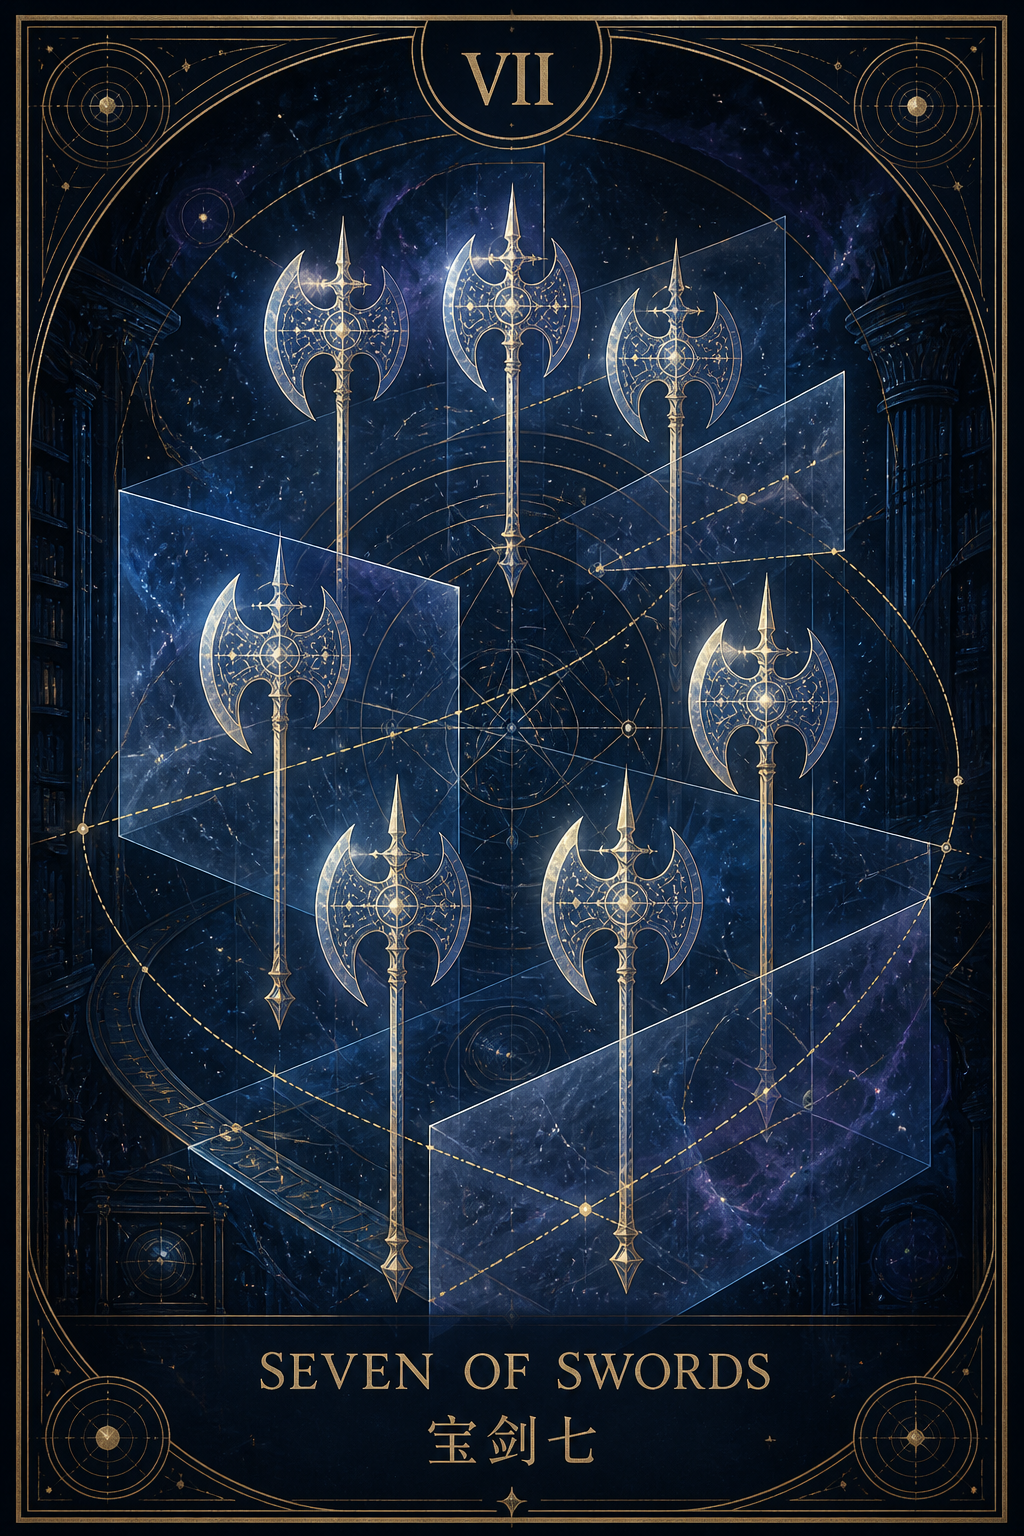
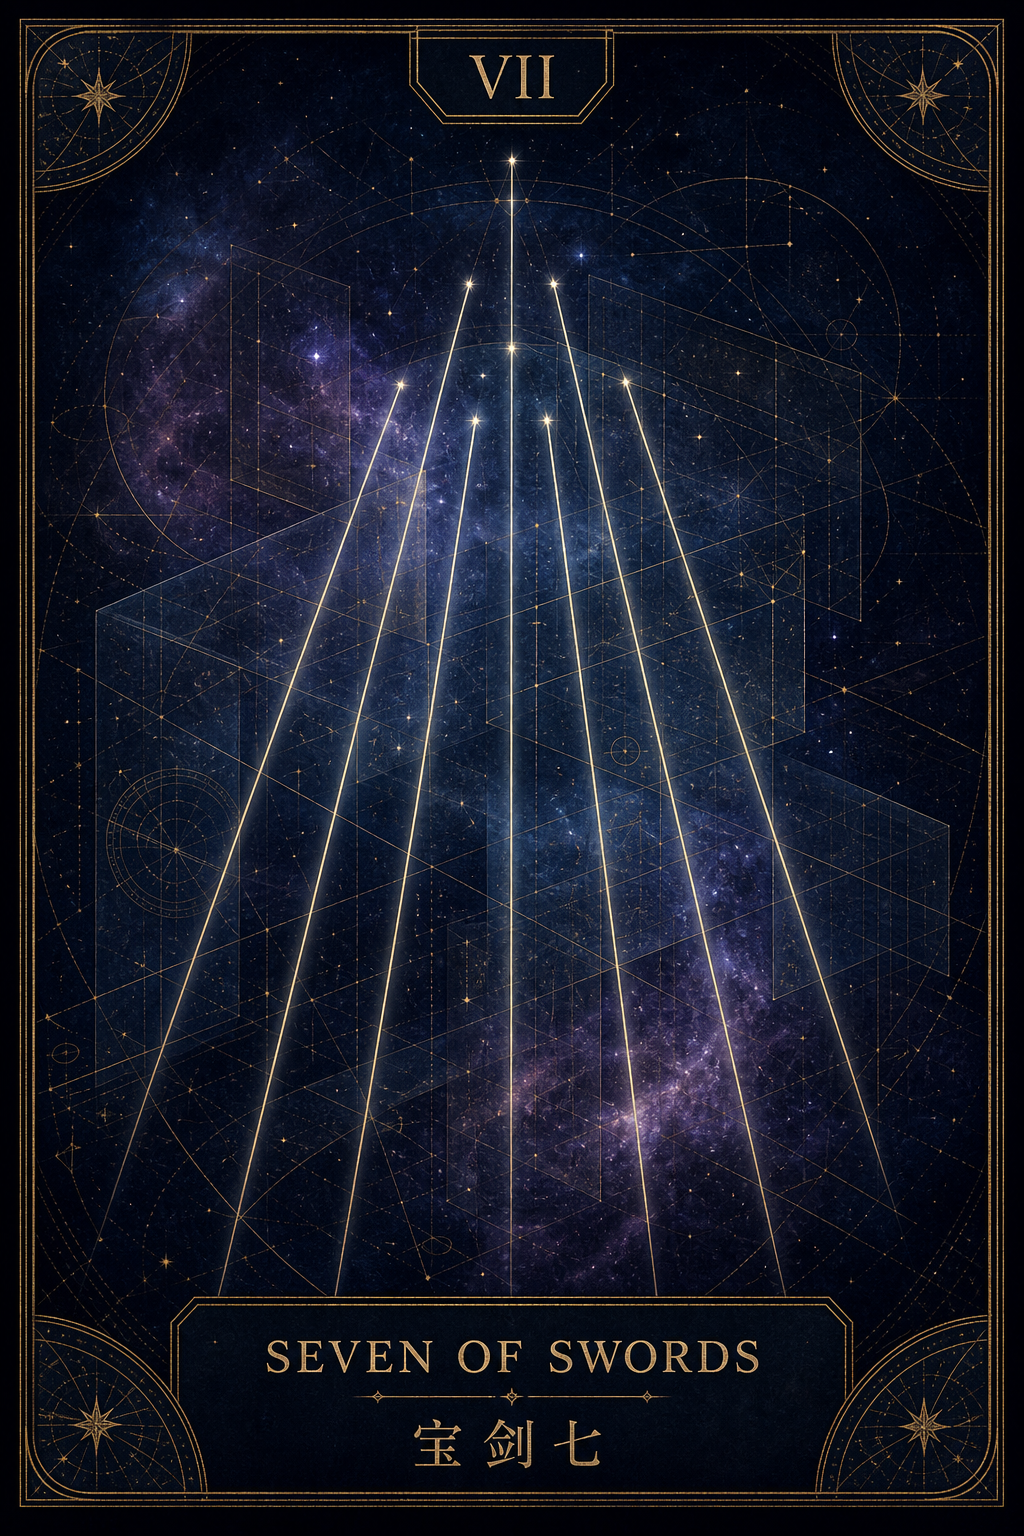
fix: redraw swords candidates seven through nine

diff --git a/assets/tarot/dark_cosmic_archive/candidates/minor_batch_swords/swords_08_eight/metadata.md b/assets/tarot/dark_cosmic_archive/candidates/minor_batch_swords/swords_08_eight/metadata.md
@@ -4,9 +4,11 @@ Card ID: `swords_08_eight`
 Deck: `dark_cosmic_archive`
 Suit: `swords`
 Rank: `eight`
-Prompt: Eight Cosmic Insight Blade light axes define a transparent geometric enclosure around an open central space; conscious limitation as a pattern.
-Negative Prompt: war scene, battle, weapon combat, realistic sword, knight battle, warrior, blood, injury, horror, death scene, fantasy game card, modern UI, cartoon style, realistic portrait, sci-fi spaceship.
+Prompt: Eight slender geometric light boundaries form a transparent cognitive enclosure around an open central void and a visible path of release; no sword-shaped objects.
+Negative Prompt: axe, battleaxe, sword object, blade object, weapon, hilt, handle, polearm, person, prison scene, war scene, battle, warrior, blood, injury, horror, death scene, fantasy game card, modern UI, cartoon style, realistic portrait, sci-fi spaceship.
 Resolution: `1024x1536` (2:3)
 Generation Date: `2026-08-21`
 Reference: `../../../visual_spec.md`; `../../../minor_arcana_generation_template.md`; `../../../reference/the_star_approved_v1.png` (style only)
 Status: `candidate`
+
+Revision: `v2`; `card_v1.png` retained as rejected candidate history after visual-rule review.

diff --git a/assets/tarot/dark_cosmic_archive/candidates/minor_batch_swords/swords_07_seven/metadata.md b/assets/tarot/dark_cosmic_archive/candidates/minor_batch_swords/swords_07_seven/metadata.md
@@ -4,9 +4,11 @@ Card ID: `swords_07_seven`
 Deck: `dark_cosmic_archive`
 Suit: `swords`
 Rank: `seven`
-Prompt: Seven Cosmic Insight Blade axes within translucent geometric planes and partially hidden star-track paths; careful strategy.
-Negative Prompt: war scene, battle, weapon combat, realistic sword, knight battle, warrior, blood, injury, horror, death scene, fantasy game card, modern UI, cartoon style, realistic portrait, sci-fi spaceship.
+Prompt: Seven slender luminous star-track tangents are partly obscured by translucent optical planes and archive grid lines; hidden cognitive structure without weapon imagery.
+Negative Prompt: axe, battleaxe, sword object, blade object, weapon, hilt, handle, polearm, war scene, battle, warrior, blood, injury, horror, death scene, fantasy game card, modern UI, cartoon style, realistic portrait, sci-fi spaceship.
 Resolution: `1024x1536` (2:3)
 Generation Date: `2026-08-21`
 Reference: `../../../visual_spec.md`; `../../../minor_arcana_generation_template.md`; `../../../reference/the_star_approved_v1.png` (style only)
 Status: `candidate`
+
+Revision: `v2`; `card_v1.png` retained as rejected candidate history after axe-like silhouette review.

diff --git a/assets/tarot/dark_cosmic_archive/candidates/minor_batch_swords/swords_09_nine/metadata.md b/assets/tarot/dark_cosmic_archive/candidates/minor_batch_swords/swords_09_nine/metadata.md
@@ -4,9 +4,11 @@ Card ID: `swords_09_nine`
 Deck: `dark_cosmic_archive`
 Suit: `swords`
 Rank: `nine`
-Prompt: Nine Cosmic Insight Blade axes become dense, orderly thought-ripples and repeating cognitive wave patterns in deep space.
-Negative Prompt: war scene, battle, weapon combat, realistic sword, knight battle, warrior, blood, injury, horror, death scene, fantasy game card, modern UI, cartoon style, realistic portrait, sci-fi spaceship.
+Prompt: Nine discrete optical waveform bands and concentric insight-ripples form a measured 3-by-3 cognitive field around a calm central axis; no sword-shaped objects.
+Negative Prompt: axe, battleaxe, sword object, blade object, weapon, hilt, handle, polearm, person, bed, war scene, battle, warrior, blood, injury, horror, death scene, fantasy game card, modern UI, cartoon style, realistic portrait, sci-fi spaceship.
 Resolution: `1024x1536` (2:3)
 Generation Date: `2026-08-21`
 Reference: `../../../visual_spec.md`; `../../../minor_arcana_generation_template.md`; `../../../reference/the_star_approved_v1.png` (style only)
 Status: `candidate`
+
+Revision: `v2`; `card_v1.png` retained as rejected candidate history after visual-rule review.
